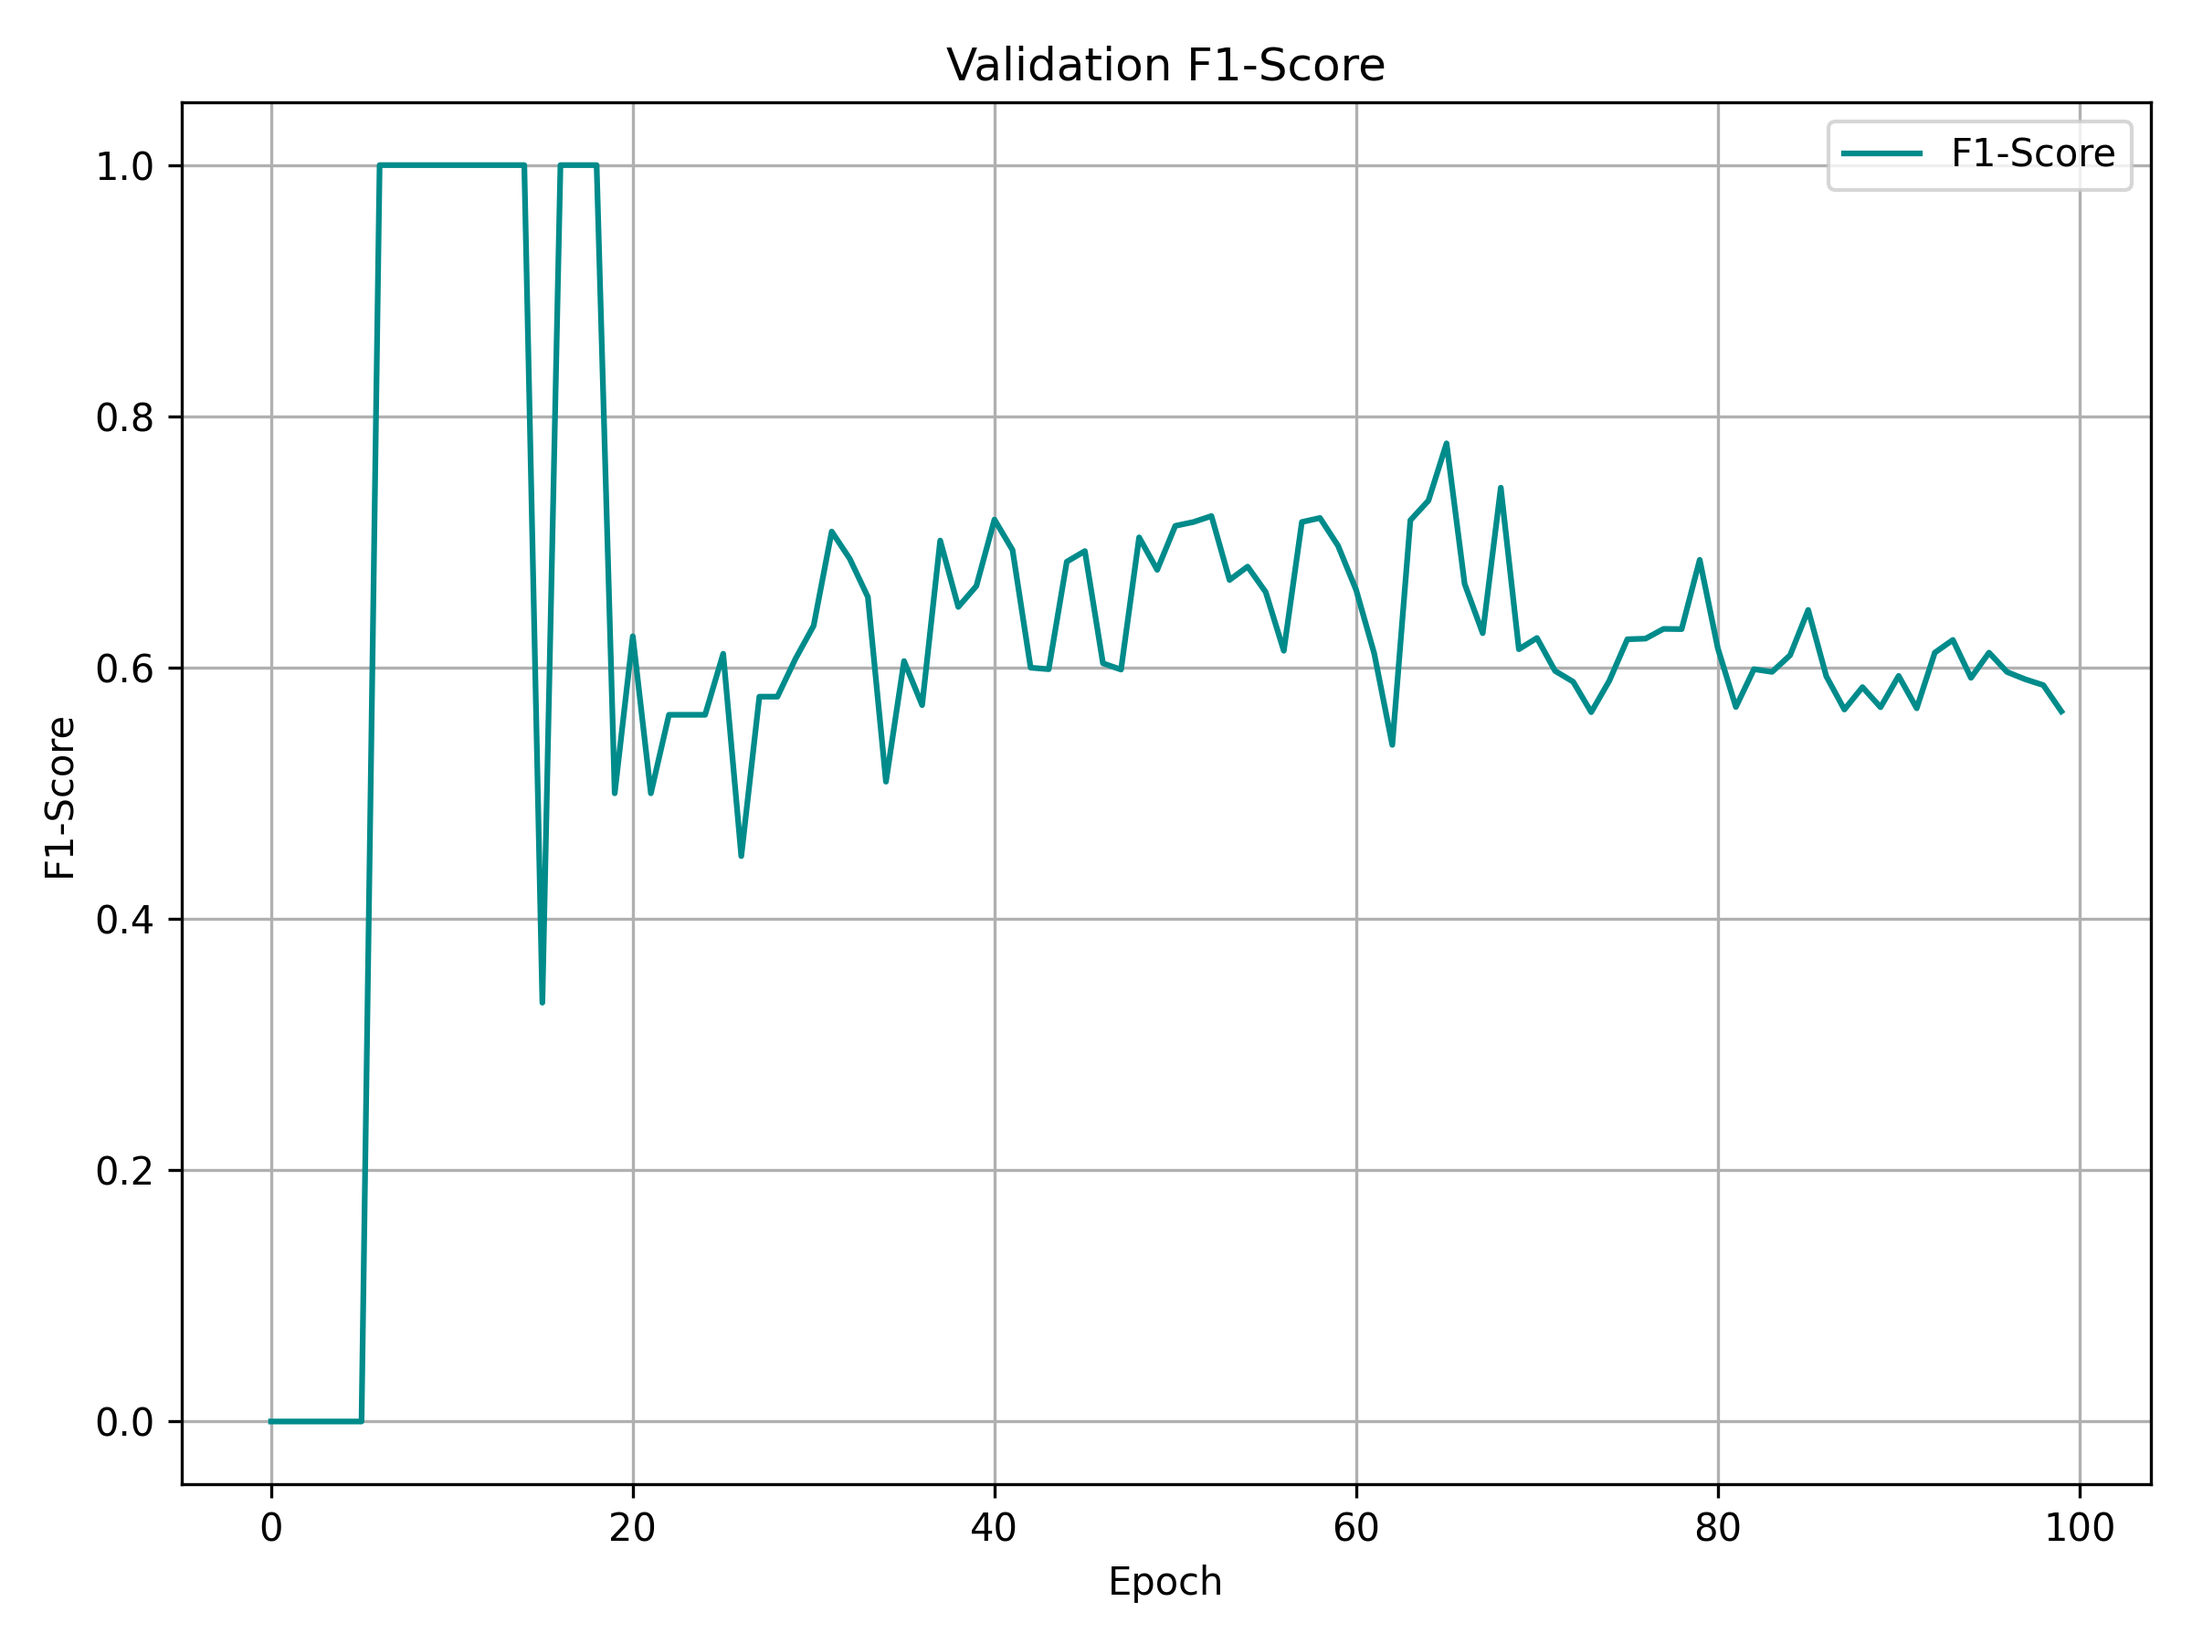
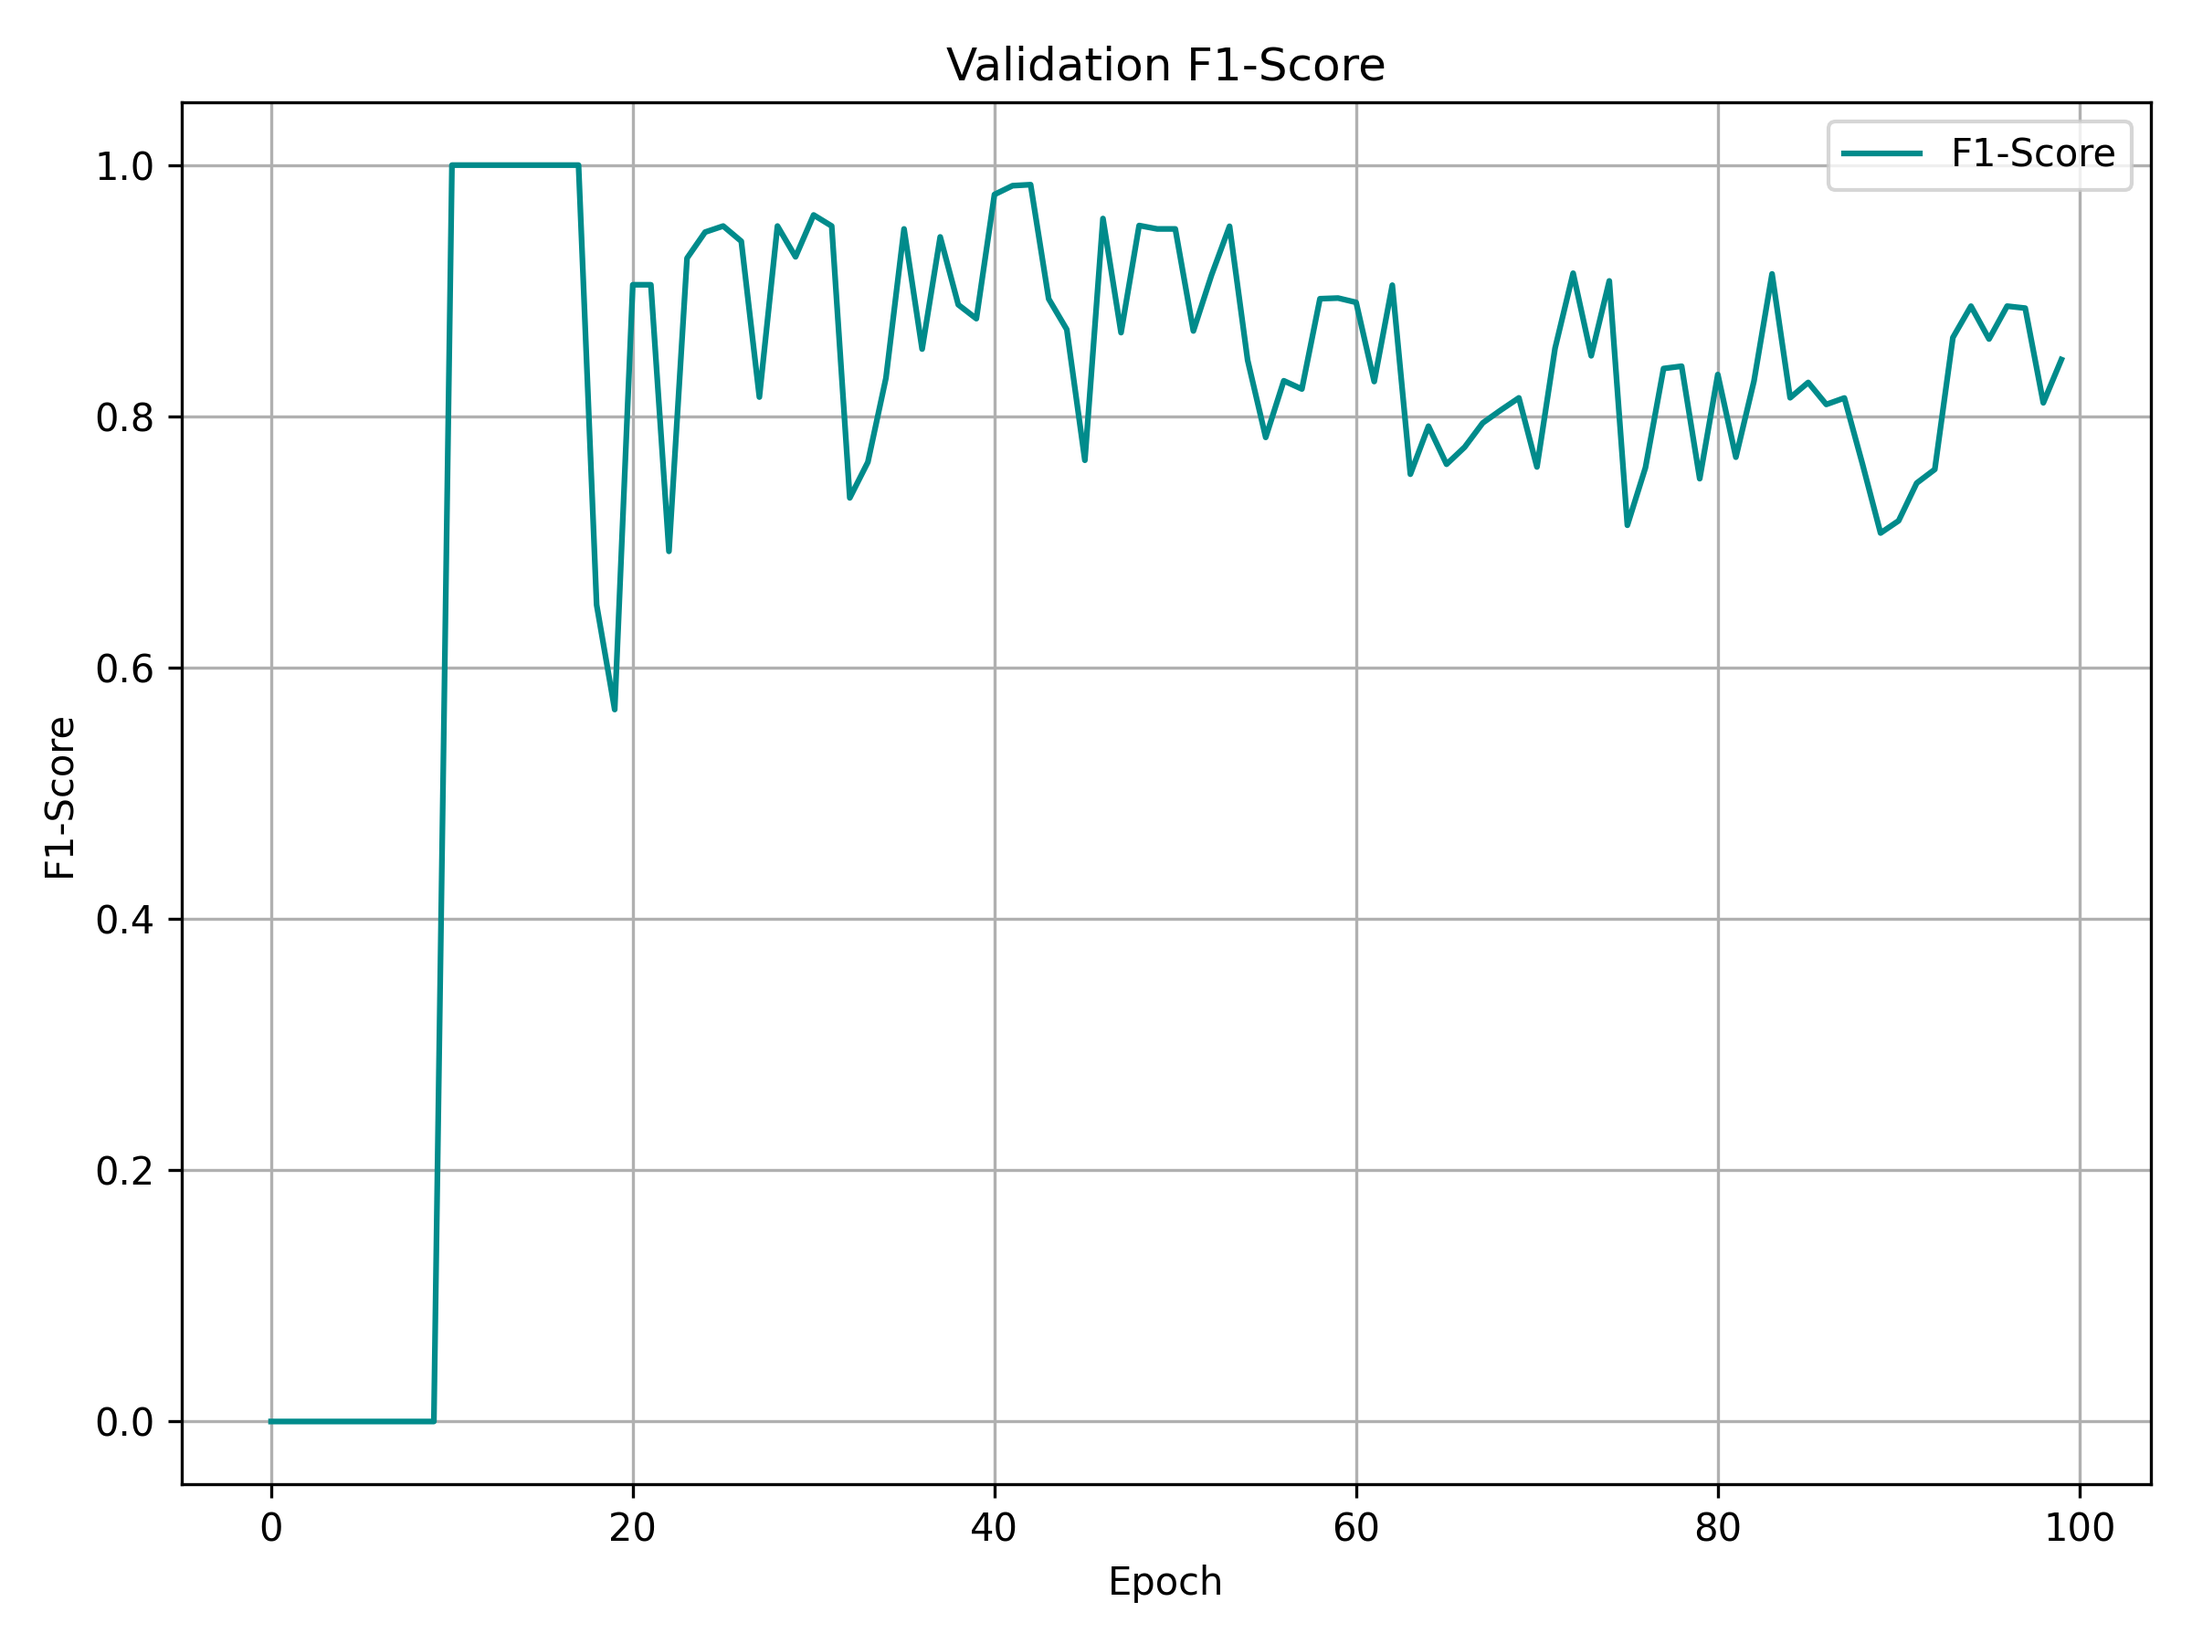
upgrade test set

diff --git a/data_utils.py b/data_utils.py
@@ -20,36 +20,32 @@ class FaceDataset(Dataset):
     def __getitem__(self, idx):
         return self.features[idx], self.labels[idx]
 
-def load_data(csv_path, split=0.8):
-    # Load CSV
+def load_data(csv_path, train_split=0.7, val_split=0.15, test_split=0.15, seed=42):
+    assert abs(train_split + val_split + test_split - 1.0) < 1e-6, "Splits must sum to 1.0"
+    
     df = pd.read_csv(csv_path)
-
-    # Extract labels and features
     identities = df['identity'].values
     features = df.drop(columns=['identity', 'expression', 'filename']).values.astype('float32')
 
-    # Label encoding
     label_encoder = LabelEncoder()
     labels = label_encoder.fit_transform(identities)
 
-    # Feature scaling
     scaler = StandardScaler()
     features = scaler.fit_transform(features)
     joblib.dump(scaler, "scaler.pkl")
-    
-    # Shuffle and split
-    total = len(labels)
-    indices = torch.randperm(total)
-    train_size = int(split * total)
-
-    train_idx = indices[:train_size]
-    test_idx = indices[train_size:]
 
     features = torch.tensor(features, dtype=torch.float32)
     labels = torch.tensor(labels, dtype=torch.long)
 
-    # Create datasets
-    train_dataset = FaceDataset(features[train_idx], labels[train_idx])
-    test_dataset = FaceDataset(features[test_idx], labels[test_idx])
+    dataset = FaceDataset(features, labels)
 
-    return train_dataset, test_dataset, label_encoder
+    total_size = len(dataset)
+    train_size = int(train_split * total_size)
+    val_size = int(val_split * total_size)
+    test_size = total_size - train_size - val_size  # Resto
+
+    generator = torch.Generator().manual_seed(seed)
+    train_dataset, val_dataset, test_dataset = torch.utils.data.random_split(dataset, [train_size, val_size, test_size], generator=generator)
+
+    return train_dataset, val_dataset, test_dataset, label_encoder
+

diff --git a/run.py b/run.py
@@ -21,24 +21,22 @@ def run_training():
     lr = 1e-3
     num_epochs = 100
     patience = 20
-    seed = 42
+    seed = 0
     val_split = 0.2
 
     # === Seed per riproducibilità ===
-    random.seed(seed)
+    '''random.seed(seed)
     np.random.seed(seed)
     torch.manual_seed(seed)
     torch.cuda.manual_seed_all(seed)
     torch.backends.cudnn.deterministic = True
-    torch.backends.cudnn.benchmark = False
+    torch.backends.cudnn.benchmark = False'''
 
     device = torch.device('cuda' if torch.cuda.is_available() else 'cpu')
 
     # === Load data ===
-    full_dataset, _, label_encoder = load_data(csv_path)
-    val_size = int(len(full_dataset) * val_split)
-    train_size = len(full_dataset) - val_size
-    train_dataset, val_dataset = random_split(full_dataset, [train_size, val_size])
+    train_dataset, val_dataset, test_dataset, label_encoder = load_data(csv_path)
+
 
     train_loader = DataLoader(train_dataset, batch_size=batch_size, shuffle=True)
     val_loader = DataLoader(val_dataset, batch_size=batch_size, shuffle=False)

diff --git a/test.py b/test.py
@@ -102,7 +102,7 @@ def run_test():
     device = torch.device('cuda' if torch.cuda.is_available() else 'cpu')
 
     # Load test data
-    _, test_dataset, label_encoder = load_data(csv_path)
+    _, _, test_dataset, label_encoder = load_data(csv_path)
     test_loader = DataLoader(test_dataset, batch_size=batch_size, shuffle=False)
 
     input_dim = test_dataset[0][0].shape[0]
